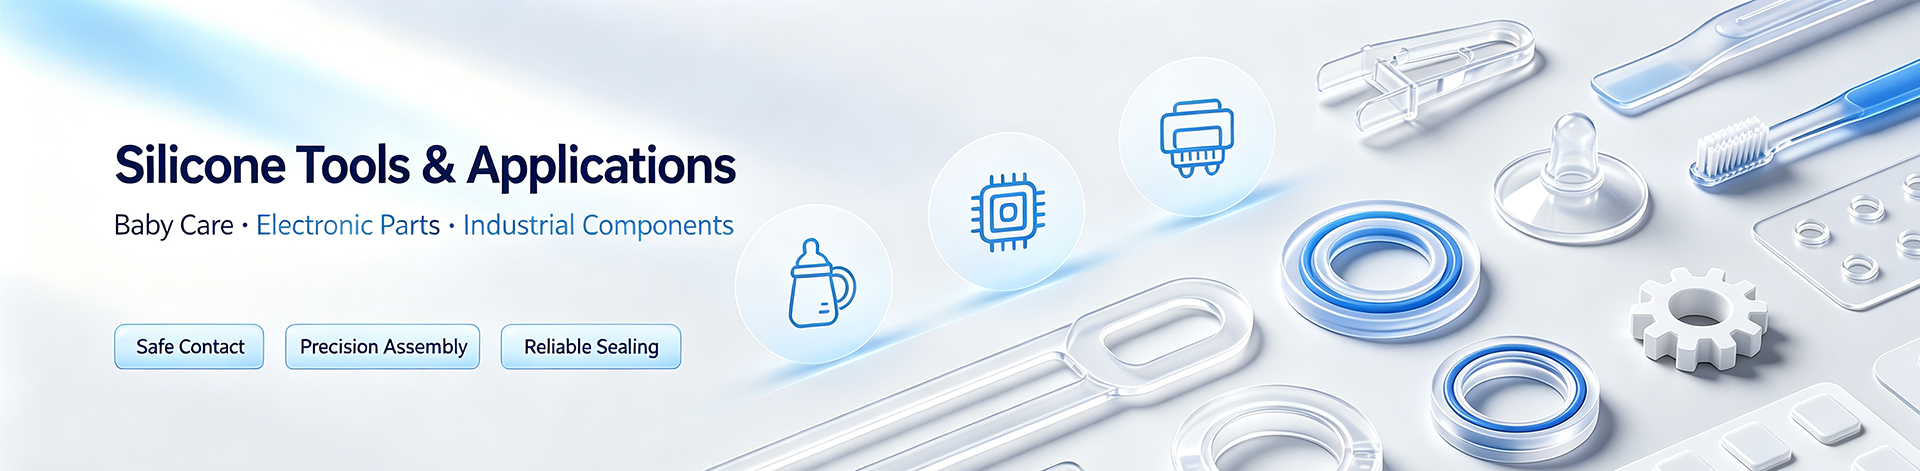
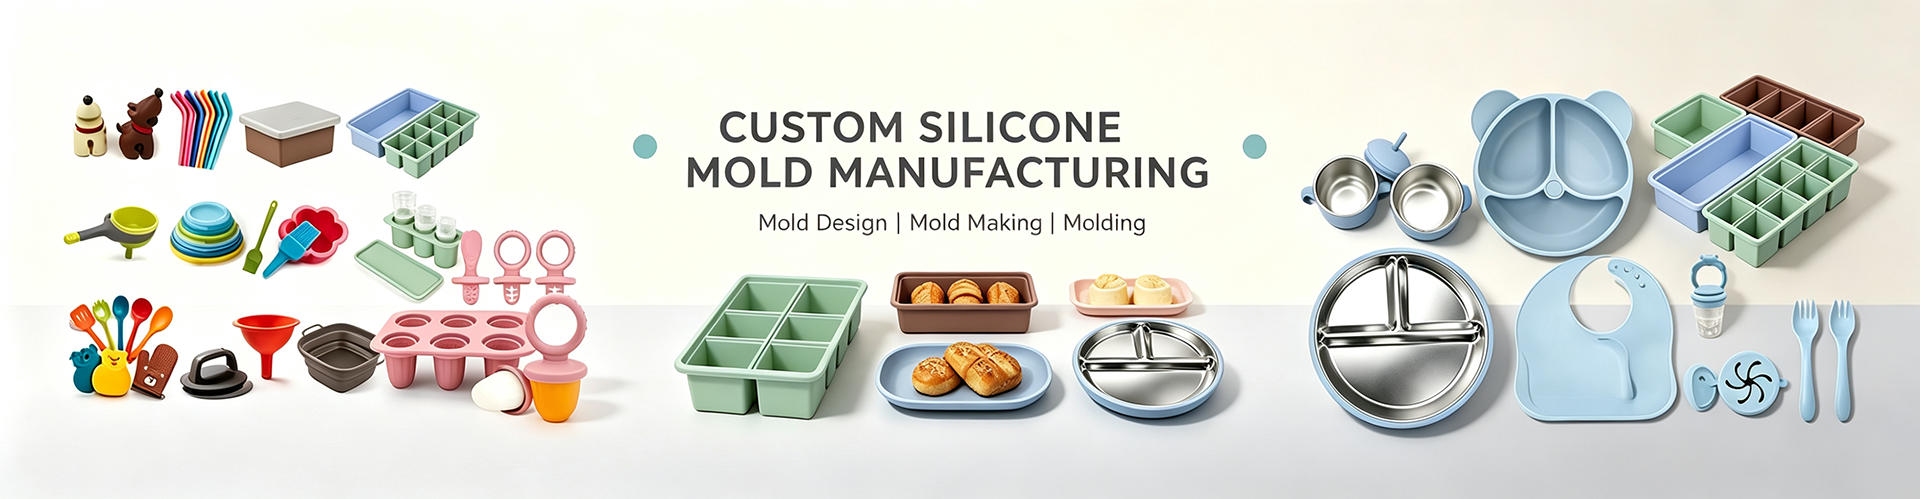
修改product页面

diff --git a/templates/product.html b/templates/product.html
@@ -7,7 +7,7 @@
 
 {% block content %}
     <div class="section bg-secondary custom-container">
-        <img src="{{ url_for('static', filename='img/product-image.jpg') }}" alt="background-image" class="img-fluid">
+        <img src="{{ url_for('static', filename='img/product-image.png') }}" alt="product-background-image" class="img-fluid">
     </div>
     <section class="py-3 bg-light">
         <div class="container">
@@ -20,7 +20,7 @@
                     </li>
                     <li class="breadcrumb-item">
                         <a href="{{ url_for('category', category_id=product.category.id) }}"
-                           class="link-underline link-underline-opacity-0 link-underline-opacity-75-hover">PRODUCTS
+                           class="link-underline link-underline-opacity-0 link-underline-opacity-75-hover">{{ product.category.name }}
                         </a>
                     </li>
                     <li class="breadcrumb-item active" aria-current="page">{{ product.name }}</li>
@@ -28,7 +28,7 @@
             </nav>
             <div class="row">
                 <div class="col-md-6 d-flex flex-column align-items-center">
-                    {% if product.photos %}
+                    {% if photo_list %}
                         <img src="{{ url_for('get_image', filename=product.photos[0].filename) }}" alt="product-image"
                              class="product-image img-fluid" id="main-image">
                         <div class="mt-3">

diff --git a/templates/products.html b/templates/products.html
@@ -7,7 +7,7 @@
 
 {% block content %}
     <div class="section bg-secondary custom-container">
-        <img src="{{ url_for('static', filename='img/product-image.png') }}" alt="background-image" class="img-fluid">
+        <img src="{{ url_for('static', filename='img/category-image.png') }}" alt="background-image" class="img-fluid">
     </div>
     <section class="text-center bg-light">
         <div class="container">

diff --git a/app.py b/app.py
@@ -308,9 +308,15 @@ def contact():
 
 @app.route('/product/<int:product_id>')  # 产品详情
 def product(product_id):
-    product = Product.query.get(product_id)
+    product = Product.query.get_or_404(product_id)
     recommends_products = Product.query.filter(Product.id != product_id).all()
-    return render_template('product.html', product=product, recommends_products=recommends_products)
+
+    photo_list = product.photos.all()
+    for p in recommends_products:
+        p.photos = p.photos.all()
+    product.clicks += 1
+    db.session.commit()
+    return render_template('product.html', product=product, recommends_products=recommends_products, photo_list=photo_list)
 
 @app.route('/technology', methods=['GET', 'POST'])
 def technology():
@@ -566,7 +572,7 @@ if __name__ == '__main__':
 
 @app.cli.command()  # 生成数据
 def forge():
-    from fakes import fake_products, fake_about, fake_advantage, fake_categories, fake_website_info
+    from fakes import fake_categories, fake_products, fake_about, fake_advantage,  fake_website_info
     click.echo('Drop tables....')
     db.drop_all()
     click.echo('Delete uploads photo...')
@@ -575,14 +581,14 @@ def forge():
         os.mkdir(current_app.config['HY_UPLOAD_PATH'])
     click.echo('Initialized database......')
     db.create_all()
+    click.echo('Generating categories...')
+    fake_categories()
     click.echo('Generating products...')
     fake_products()
     click.echo('Generating about_us text...')
     fake_about()
     click.echo('Generating advantage text...')
     fake_advantage()
-    click.echo('Generating categories...')
-    fake_categories()
     click.echo('Generating website info...')
     fake_website_info()
 

diff --git a/fakes.py b/fakes.py
@@ -23,12 +23,17 @@ products = [
 ]  # 10 products
 
 categories = [
-    'Baby & Maternity Silicone Products',
-    'Medical‑Grade Silicone Parts',
-    'Electronic Silicone Accessories',
-    'Industrial Silicone Components',
+    'Household Products',
+    'Industrial Components',
+    'Electronic Accessories',
+    'Medical-Grade Parts',
 ]
 
+def fake_categories():
+    for category_name in categories:
+        category = Category(name=category_name)
+        db.session.add(category)
+    db.session.commit()
 
 
 def fake_products():
@@ -45,16 +50,10 @@ def fake_products():
             level='High Quality',
             oem='Welcome',
             clicks=0,
+            category_id=random.choice(Category.query.all()).id,
             timestamp=datetime.now()
         )
         db.session.add(product)
-    db.session.commit()
-
-
-def fake_categories():
-    for category_name in categories:
-        category = Category(name=category_name)
-        db.session.add(category)
     db.session.commit()
 
 
